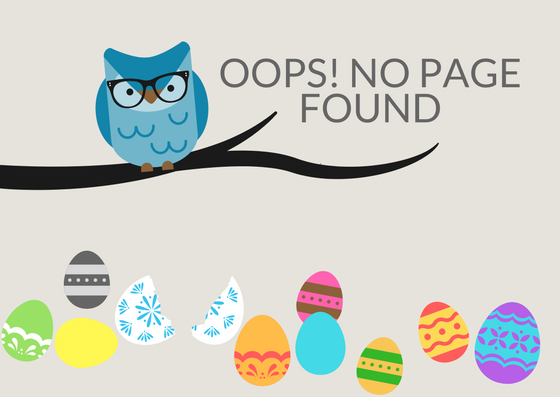
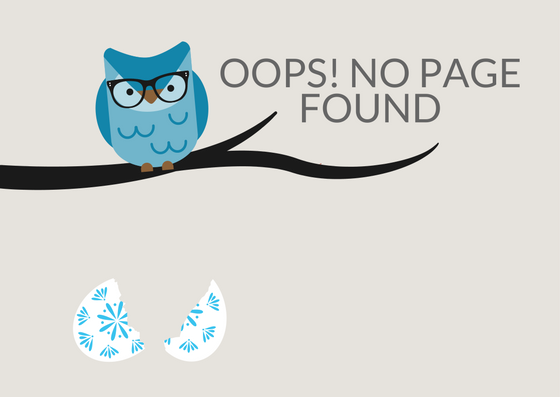
fix: Maximize the size of the image in 404Page

Changed region(s): [[0.0, 0.6348, 0.9714, 0.9975]]

diff --git a/src/Pages/AddRoute.js b/src/Pages/AddRoute.js
@@ -6,14 +6,12 @@ import FIELDS from "./routeFormFields";
 import popupSearchDateField from "../Components/container/popupSearchDateField";
 import FileInput from "./FileInput";
 import * as actions from "../Actions";
-import { formValueSelector } from 'redux-form';
+
 
 class AddRoute extends Component {
     onCancel() {}
 
     submitForm(values) {
-
-        // console.log('formValues', c);
 
         console.log("values", values);
         const {
@@ -85,7 +83,6 @@ class AddRoute extends Component {
                     marginTop: 20
                 }}
             >
-            <div>{this.props.location}</div>
                 <div>
                     <i
                         className="material-icons medium left"
@@ -124,7 +121,9 @@ class AddRoute extends Component {
                 </div>
 
                 <form
-                    onSubmit={this.props.handleSubmit(this.props.onSubmitForm)}
+                    onSubmit={this.props.handleSubmit(
+                        this.submitForm.bind(this)
+                    )}
                 >
                     {this.renderFields()}
 
@@ -199,4 +198,4 @@ AddRoute = reduxForm({
     validate
 })(AddRoute);
 
-export default (AddRoute = connect(mapStateToProps, actions)(AddRoute));
+export default (AddRoute = connect(null, actions)(AddRoute));

diff --git a/src/App.js b/src/App.js
@@ -45,7 +45,6 @@ import MyMessage from "./Pages/MyMessage";
 import Discovery from "./Pages/Discovery";
 import MyRoute from "./Pages/MyRoute";
 import AddRoute from "./Pages/AddRoute";
-import AddRouteReview from "./Pages/AddRouteReview";
 
 import LocationSearch from "material-ui-icons/LocationSearching";
 import Favorite from "material-ui-icons/FavoriteBorder";
@@ -243,7 +242,6 @@ class App extends Component {
                     {/*unit test used below, production will check env.production to disable*/}
                     <Route path="/signup" component={UnitSinupPage} />
                     <Route path="/login" component={LoginForm} />
-                    <Route path='/review' component={AddRouteReview} />
                     <Route component={PageNotFound} />
                   </Switch>
                 </div>

diff --git a/src/index.js b/src/index.js
@@ -7,7 +7,7 @@ import App from './App';
 import {Provider} from 'react-redux';
 import thunk from 'redux-thunk';
 import {createStore, applyMiddleware, compose} from 'redux'
-import rootReducer from './Store/rootReducer'
+import reducers from './Reducers'
 import {BrowserRouter} from 'react-router-dom'
 import setAuthorizationToken from './Utlity/setAuthorizationToken'
 import jwtDecode from 'jwt-decode'
@@ -28,12 +28,7 @@ import 'materialize-css/dist/css/materialize.min.css';
 
 const composeEnhancers = window.__REDUX_DEVTOOLS_EXTENSION_COMPOSE__ || compose;
 //create redux store in root
-const store = createStore(
-rootReducer,
-composeEnhancers(
-applyMiddleware(thunk),
-)
-);
+const store = createStore(reducers, composeEnhancers(applyMiddleware(thunk)));
 
 if(localStorage.jwtToken)
 {

diff --git a/src/Pages/404Page.js b/src/Pages/404Page.js
@@ -1,17 +1,13 @@
-import React, {Component} from 'react';
-import NotFoundPage from './404.png';
-class PageNotFound extends Component
-{
-  render()
-  {
-    return(
-  <div>
-    <img src={NotFoundPage}/>
- </div>
-    )
-
-  }
-
+import React, { Component } from "react";
+import NotFoundPage from "./404.png";
+class PageNotFound extends Component {
+    render() {
+        return (
+            <div style={{ maxWidth: "800px", position:'relative'}}>
+                <img style={{ maxWidth: "100%" }} src={NotFoundPage} />
+            </div>
+        );
+    }
 }
 
 export default PageNotFound;

diff --git a/src/Reducers/index.js b/src/Reducers/index.js
@@ -5,13 +5,12 @@
 //  reducer  reducer
 
 import {combineReducers} from 'redux';
-import UserAuth from '../Reducers/UserAuth';
-import { reducer as reduxForm } from 'redux-form';
-import historyDataReducer from '../Reducers/historyDataReducer';
+import UserAuth from './UserAuth';
+import { reducer as formReducer } from 'redux-form';
+import historyDataReducer from './historyDataReducer';
 
 export default combineReducers({
       UserAuth,
       historyData:historyDataReducer,
-      form: reduxForm,
-
+      form: formReducer,
 });
